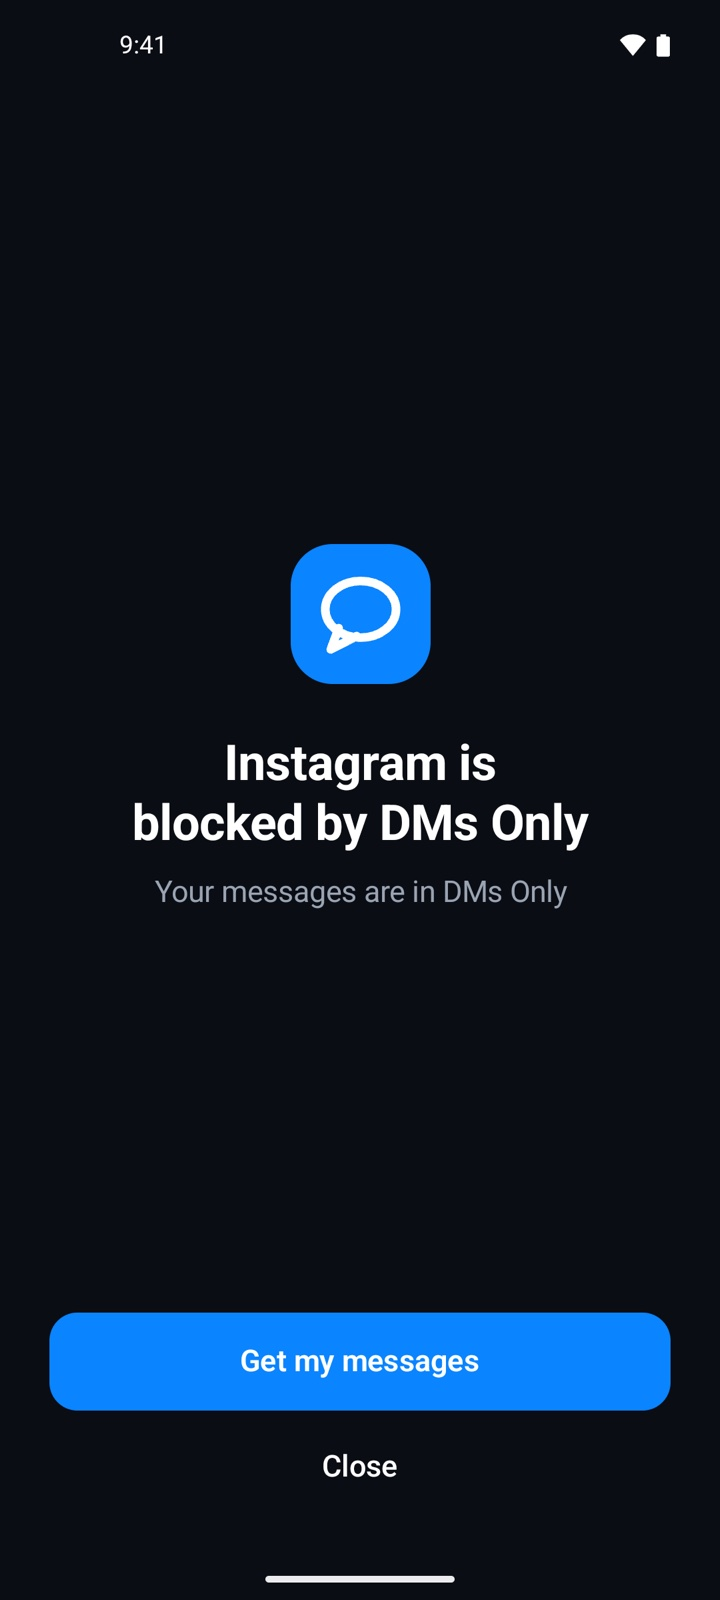
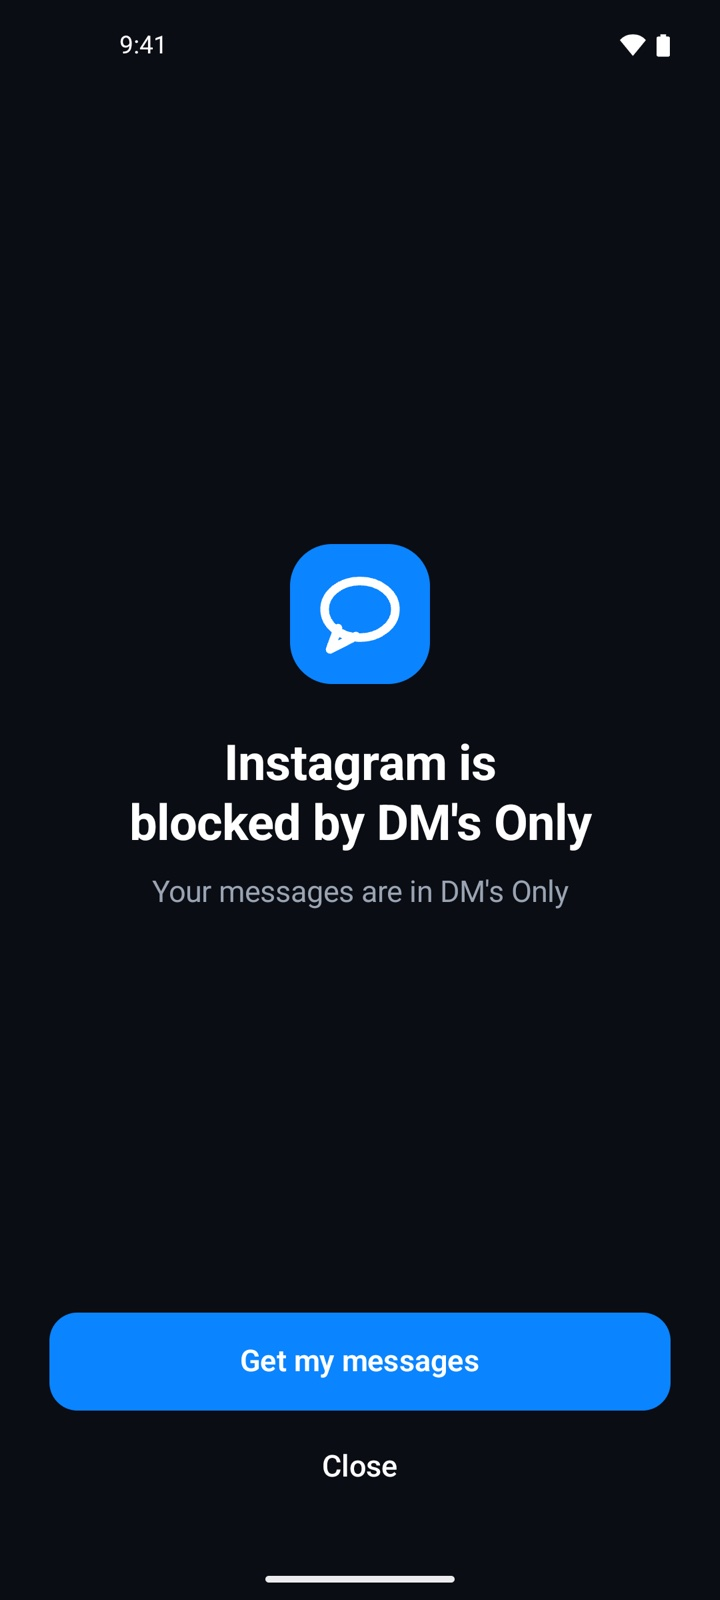
Rename to DM's Only, one-row hero buttons, slimmer popup, smoother scrolling on Android

Changed region(s): [[0.1833, 0.5, 0.825, 0.5625]]

diff --git a/index.html b/index.html
@@ -4,11 +4,11 @@
   <meta charset="utf-8">
   <meta name="viewport" content="width=device-width, initial-scale=1, interactive-widget=resizes-content">
   <meta name="color-scheme" content="dark">
-  <title>DMs Only | Instagram without the scroll</title>
-  <meta name="description" content="DMs Only for Android: your Instagram DMs, group chats and friends' Stories without the Feed, Reels or Explore.">
+  <title>DM's Only | Instagram without the scroll</title>
+  <meta name="description" content="DM's Only for Android: your Instagram DMs, group chats and friends' Stories without the Feed, Reels or Explore.">
   <meta property="og:type" content="website">
   <meta property="og:url" content="https://dmsonly.github.io/">
-  <meta property="og:title" content="DMs Only | Instagram without the scroll">
+  <meta property="og:title" content="DM's Only | Instagram without the scroll">
   <meta property="og:description" content="Your Instagram DMs, group chats and friends' Stories without the Feed, Reels or Explore.">
   <link rel="icon" href="favicon.svg" type="image/svg+xml">
   <link rel="icon" href="favicon-32.png" type="image/png" sizes="32x32">
@@ -938,10 +938,11 @@
     }
 
     .email-dialog h3 {
-      margin: 0 2.75rem 0.5rem 0;
-      font-size: 1.75rem;
-      line-height: 1.15;
-      letter-spacing: -0.03em;
+      margin: 0 2.75rem 0.375rem 0;
+      font-size: 1.375rem;
+      font-weight: 600;
+      line-height: 1.2;
+      letter-spacing: -0.015em;
     }
 
     .email-dialog > p,
@@ -1044,7 +1045,7 @@
     .tester-row input {
       flex: 1;
       min-width: 0;
-      min-height: 3.25rem;
+      min-height: 2.875rem;
       padding: 0 1rem;
       border: 1.5px solid #cfd8e3;
       border-radius: 14px;
@@ -1067,9 +1068,11 @@
 
     .tester-row .btn {
       flex: none;
-      min-height: 3.25rem;
-      padding: 0 1.5rem;
+      min-width: 7rem;
+      min-height: 2.875rem;
+      padding: 0 1.75rem;
       border-radius: 14px;
+      font-size: 0.9375rem;
     }
 
     .btn:disabled {
@@ -1145,9 +1148,6 @@
         animation: sheet-in 0.3s var(--ease-out);
       }
 
-      .email-dialog h3 {
-        font-size: 1.5rem;
-      }
 
       .tester-row {
         flex-direction: column;
@@ -1343,6 +1343,52 @@
       .split-visual {
         height: 28rem;
       }
+
+      /* Google Play badge and tester button share one row on phones. */
+      .hero .actions {
+        flex-wrap: nowrap;
+        gap: 0.625rem;
+      }
+
+      .hero .actions > * {
+        flex: 1 1 0;
+        min-width: 0;
+        min-height: 3.25rem;
+      }
+
+      .hero .soon {
+        justify-content: center;
+        gap: 0.5rem;
+        padding: 0.375rem 0.75rem;
+        border-radius: 14px;
+      }
+
+      .hero .soon svg {
+        width: 1.125rem;
+        height: 1.125rem;
+      }
+
+      .hero .soon small {
+        font-size: 0.6875rem;
+      }
+
+      .hero .soon strong {
+        font-size: 0.9375rem;
+        white-space: nowrap;
+      }
+
+      .hero .actions .btn {
+        padding: 0 0.75rem;
+        border-radius: 14px;
+        font-size: 0.9375rem;
+        white-space: nowrap;
+      }
+    }
+
+    @media (max-width: 359px) {
+      .hero .actions .btn .arrow {
+        display: none;
+      }
     }
   </style>
 </head>
@@ -1388,7 +1434,7 @@
   <div class="page">
     <header class="site-header">
       <div class="wrap">
-        <a class="brand" href="#top"><img src="favicon.svg" alt="" width="32" height="32">DMs Only</a>
+        <a class="brand" href="#top"><img src="favicon.svg" alt="" width="32" height="32">DM's Only</a>
         <nav class="nav" aria-label="Main">
           <a href="#features">Features</a>
           <a href="#privacy">Privacy</a>
@@ -1405,7 +1451,7 @@
         <div class="wrap">
           <div>
             <span class="eyebrow">Coming soon for Android</span>
-            <h1>DMs Only</h1>
+            <h1>DM's Only</h1>
             <p class="tagline">Instagram without the Feed, Reels or Explore.</p>
             <p class="lede">Keep your DMs, group chats, voice notes and friends' Stories. Skip the endless scroll.</p>
             <div class="actions">
@@ -1425,7 +1471,7 @@
             </div>
             <div class="device front">
               <div class="screen">
-                <img src="screens/welcome.jpg" width="720" height="1600" fetchpriority="high" alt="DMs Only welcome screen: Instagram without the Feed, Reels or Explore.">
+                <img src="screens/welcome.jpg" width="720" height="1600" fetchpriority="high" alt="DM's Only welcome screen: Instagram without the Feed, Reels or Explore.">
               </div>
             </div>
           </div>
@@ -1438,7 +1484,7 @@
           <div class="section-head" data-reveal>
             <p class="label">Features</p>
             <h2>Your messages stay. The scroll goes.</h2>
-            <p>DMs Only opens Instagram's own website with the distracting parts taken out, so you can talk to friends without getting pulled into a feed.</p>
+            <p>DM's Only opens Instagram's own website with the distracting parts taken out, so you can talk to friends without getting pulled into a feed.</p>
           </div>
         </div>
         <ul class="gallery" tabindex="0" aria-label="Features">
@@ -1474,21 +1520,21 @@
             <div class="card-visual">
               <div class="device">
                 <div class="screen">
-                  <img src="screens/settings.jpg" width="720" height="1600" loading="lazy" decoding="async" alt="DMs Only Settings with Block Instagram and Unread message alerts turned on.">
+                  <img src="screens/settings.jpg" width="720" height="1600" loading="lazy" decoding="async" alt="DM's Only Settings with Block Instagram and Unread message alerts turned on.">
                 </div>
               </div>
             </div>
             <div class="card-copy">
               <p class="label">Notifications</p>
               <h3>Unread alerts</h3>
-              <p>Turn them on and DMs Only checks about every 15 minutes, then tells you how many conversations are unread.</p>
+              <p>Turn them on and DM's Only checks about every 15 minutes, then tells you how many conversations are unread.</p>
             </div>
           </li>
           <li class="card" data-reveal style="--reveal-delay:0.24s">
             <div class="card-visual">
               <div class="device">
                 <div class="screen">
-                  <img src="screens/block.jpg" width="720" height="1600" loading="lazy" decoding="async" alt="Block screen shown over the Instagram app: Instagram is blocked by DMs Only.">
+                  <img src="screens/block.jpg" width="720" height="1600" loading="lazy" decoding="async" alt="Block screen shown over the Instagram app: Instagram is blocked by DM's Only.">
                 </div>
               </div>
             </div>
@@ -1506,7 +1552,7 @@
           <div class="split-visual" data-reveal>
             <div class="device">
               <div class="screen">
-                <img src="screens/sign-in.jpg" width="720" height="1600" loading="lazy" decoding="async" alt="Sign in screen: you sign in on Instagram's own page and DMs Only never sees your password.">
+                <img src="screens/sign-in.jpg" width="720" height="1600" loading="lazy" decoding="async" alt="Sign in screen: you sign in on Instagram's own page and DM's Only never sees your password.">
               </div>
             </div>
           </div>
@@ -1515,7 +1561,7 @@
             <h2>Your password stays with Instagram.</h2>
             <ul class="checks">
               <li><svg aria-hidden="true"><use href="#check"/></svg><span>You sign in on Instagram's own page, inside the app.</span></li>
-              <li><svg aria-hidden="true"><use href="#check"/></svg><span>DMs Only has no servers of its own, so your password and messages only ever go to Instagram.</span></li>
+              <li><svg aria-hidden="true"><use href="#check"/></svg><span>DM's Only has no servers of its own, so your password and messages only ever go to Instagram.</span></li>
               <li><svg aria-hidden="true"><use href="#check"/></svg><span>No advertising or analytics SDKs, and nothing to buy.</span></li>
             </ul>
             <a class="text-link" href="privacy/">Read the privacy policy<svg class="arrow" aria-hidden="true"><use href="#arrow-right"/></svg></a>
@@ -1532,7 +1578,7 @@
           <ol class="steps">
             <li class="step" data-reveal>
               <div class="step-num">1</div>
-              <h3>Install DMs Only</h3>
+              <h3>Install DM's Only</h3>
               <p>Get it free from Google Play once it launches.</p>
             </li>
             <li class="step" data-reveal style="--reveal-delay:0.08s">
@@ -1557,12 +1603,12 @@
           </div>
           <div class="faq" data-reveal>
             <details>
-              <summary>Is DMs Only made by Instagram?</summary>
-              <p>No. DMs Only is an independent app and isn't affiliated with Instagram or Meta.</p>
+              <summary>Is DM's Only made by Instagram?</summary>
+              <p>No. DM's Only is an independent app and isn't affiliated with Instagram or Meta.</p>
             </details>
             <details>
-              <summary>Can DMs Only see my password or messages?</summary>
-              <p>No. You sign in on Instagram's own page inside the app. DMs Only doesn't run its own servers, so your password, messages and login never go anywhere except Instagram.</p>
+              <summary>Can DM's Only see my password or messages?</summary>
+              <p>No. You sign in on Instagram's own page inside the app. DM's Only doesn't run its own servers, so your password, messages and login never go anywhere except Instagram.</p>
             </details>
             <details>
               <summary>Is it free?</summary>
@@ -1570,11 +1616,11 @@
             </details>
             <details>
               <summary>Can I still use the regular Instagram app?</summary>
-              <p>Yes. Locking the Instagram app is optional. If you turn it on, DMs Only uses Android's Accessibility service only to notice when Instagram opens, and you get two 5 minute passes a day to use it.</p>
+              <p>Yes. Locking the Instagram app is optional. If you turn it on, DM's Only uses Android's Accessibility service only to notice when Instagram opens, and you get two 5 minute passes a day to use it.</p>
             </details>
             <details>
               <summary>Will I still get notified about new messages?</summary>
-              <p>Yes, if you turn on unread alerts in Settings. DMs Only checks about every 15 minutes and tells you how many conversations are unread.</p>
+              <p>Yes, if you turn on unread alerts in Settings. DM's Only checks about every 15 minutes and tells you how many conversations are unread.</p>
             </details>
             <details>
               <summary>Can I try it before it launches?</summary>
@@ -1582,11 +1628,11 @@
             </details>
             <details>
               <summary>Is there an iPhone version?</summary>
-              <p>Not right now. DMs Only is an Android app.</p>
+              <p>Not right now. DM's Only is an Android app.</p>
             </details>
             <details>
               <summary>How do I remove my data?</summary>
-              <p>Go to Android Settings → Apps → DMs Only → Storage → Clear storage. This signs you out and resets the app. Your Instagram account and messages aren't affected. The <a href="privacy/">privacy policy</a> has the details.</p>
+              <p>Go to Android Settings → Apps → DM's Only → Storage → Clear storage. This signs you out and resets the app. Your Instagram account and messages aren't affected. The <a href="privacy/">privacy policy</a> has the details.</p>
             </details>
           </div>
         </div>
@@ -1618,7 +1664,7 @@
               <textarea id="cf-message" name="message" required placeholder="How can we help?"></textarea>
             </div>
             <button class="btn" type="submit">Continue to email<svg class="arrow" aria-hidden="true"><use href="#arrow-right"/></svg></button>
-            <p class="panel-foot">Or email <a class="js-email" href="mailto:reshu70173@gmail.com?subject=DMs%20Only">reshu70173@gmail.com</a> directly.</p>
+            <p class="panel-foot">Or email <a class="js-email" href="mailto:reshu70173@gmail.com?subject=DM%27s%20Only">reshu70173@gmail.com</a> directly.</p>
           </form>
         </div>
       </section>
@@ -1626,7 +1672,7 @@
       <section id="download" class="download">
         <div class="wrap" data-reveal>
           <img src="favicon.svg" alt="" width="72" height="72">
-          <h2>Get DMs Only</h2>
+          <h2>Get DM's Only</h2>
           <p>Free on Android. Works with your existing Instagram account.</p>
           <div class="soon">
             <svg aria-hidden="true"><use href="#play"/></svg>
@@ -1641,7 +1687,7 @@
       <div class="wrap">
         <div class="footer-grid">
           <div class="footer-brand">
-            <a class="brand" href="#top"><img src="favicon.svg" alt="" width="32" height="32">DMs Only</a>
+            <a class="brand" href="#top"><img src="favicon.svg" alt="" width="32" height="32">DM's Only</a>
             <p>Instagram DMs without the Feed, Reels or Explore.</p>
           </div>
           <div class="footer-col">
@@ -1663,13 +1709,13 @@
             <h3>Contact</h3>
             <ul>
               <li><a href="#contact">Contact form</a></li>
-              <li><a class="js-email" href="mailto:reshu70173@gmail.com?subject=DMs%20Only">Email</a></li>
+              <li><a class="js-email" href="mailto:reshu70173@gmail.com?subject=DM%27s%20Only">Email</a></li>
             </ul>
           </div>
         </div>
         <div class="footer-bottom">
-          <p>© 2026 DMs Only</p>
-          <p>DMs Only is an independent app and is not affiliated with Instagram or Meta. Instagram is a trademark of Meta Platforms, Inc.</p>
+          <p>© 2026 DM's Only</p>
+          <p>DM's Only is an independent app and is not affiliated with Instagram or Meta. Instagram is a trademark of Meta Platforms, Inc.</p>
         </div>
       </div>
     </footer>
@@ -1701,7 +1747,7 @@
 
   <dialog class="email-dialog" id="email-dialog" aria-labelledby="email-title">
     <button class="dialog-close" type="button" aria-label="Close"><svg aria-hidden="true"><use href="#close"/></svg></button>
-    <h3 id="email-title">Email DMs Only</h3>
+    <h3 id="email-title">Email DM's Only</h3>
     <p id="email-intro">Pick how you'd like to email us.</p>
     <div class="address">
       <span>reshu70173@gmail.com</span>
@@ -1779,7 +1825,7 @@
         const scale = CELLS / Math.max(w, h);
         const nextCols = Math.max(2, Math.round(w * scale));
         const nextRows = Math.max(2, Math.round(h * scale));
-        if (nextCols === cols && nextRows === rows) return;
+        if (nextCols === cols && nextRows === rows) return false;
         cols = soft.width = dots.width = nextCols;
         rows = soft.height = dots.height = nextRows;
         image = softCtx.createImageData(cols, rows);
@@ -1788,6 +1834,7 @@
           const y = j / (rows - 1);
           return 1 - (y < 0.5 ? 0.55 - 0.4 * y : 0.35 + 0.6 * (y - 0.5));
         });
+        return true;
       }
 
       function draw(t) {
@@ -1821,10 +1868,13 @@
       let clock = 0;
       let lastScroll = -Infinity;
 
-      // Clouds hold still while the page scrolls, so scrolling gets the whole frame budget.
-      addEventListener("scroll", () => {
+      // Clouds hold still from the first touch until scrolling settles, so scrolling gets the whole frame budget.
+      const hold = () => {
         lastScroll = performance.now();
-      }, { passive: true });
+      };
+      for (const type of ["scroll", "touchstart", "touchmove", "wheel"]) {
+        addEventListener(type, hold, { passive: true });
+      }
 
       function tick(now) {
         if (reduceMotion.matches) {
@@ -1833,7 +1883,7 @@
         }
         const dt = prev ? Math.min(now - prev, 100) : 0;
         prev = now;
-        if (now - lastScroll > 200) {
+        if (now - lastScroll > 250) {
           clock += dt / 1000;
           if (now - last >= 50) {
             last = now;
@@ -1856,9 +1906,9 @@
       start();
 
       reduceMotion.addEventListener("change", start);
+      // Android fires resize when the address bar slides during a scroll; only a real size change needs a redraw.
       addEventListener("resize", () => {
-        resize();
-        draw(clock);
+        if (resize()) draw(clock);
       });
     })();
 
@@ -1953,7 +2003,7 @@
       for (const link of document.querySelectorAll(".js-email")) {
         link.addEventListener("click", (event) => {
           event.preventDefault();
-          openChooser("DMs Only");
+          openChooser("DM's Only");
         });
       }
 
@@ -1963,7 +2013,7 @@
         const name = form.elements.name.value.trim();
         const topic = form.elements.topic.value;
         const text = form.elements.message.value.trim();
-        openChooser(`DMs Only: ${topic}`, name ? `${text}\n\nFrom: ${name}` : text);
+        openChooser(`DM's Only: ${topic}`, name ? `${text}\n\nFrom: ${name}` : text);
       });
     })();
 
@@ -1971,7 +2021,6 @@
       // From the Google Form's pre-filled link: .../forms/d/e/<FORM_ID>/viewform?...&entry.<NUMBER>=...
       const FORM_URL = "https://docs.google.com/forms/d/e/1FAIpQLScgSfN25VYgyDWx9qL894Soez3I2hx6gTp8X32JyJvF_CEKnA/formResponse";
       const EMAIL_FIELD = "entry.1334117426";
-      // The form also has Google's built-in Email field ("Collect email addresses: Responder input"), sent as emailAddress.
       const dialog = document.getElementById("tester-dialog");
       const form = document.getElementById("tester-form");
       const input = document.getElementById("tester-email");
@@ -2031,7 +2080,7 @@
         show("Sending…", false);
         try {
           // Google Forms doesn't allow reading the reply from another site, so a sent request counts as success.
-          await fetch(FORM_URL, { method: "POST", mode: "no-cors", body: new URLSearchParams({ emailAddress: email, [EMAIL_FIELD]: email }) });
+          await fetch(FORM_URL, { method: "POST", mode: "no-cors", body: new URLSearchParams({ [EMAIL_FIELD]: email }) });
           form.reset();
           finish(email);
         } catch {
